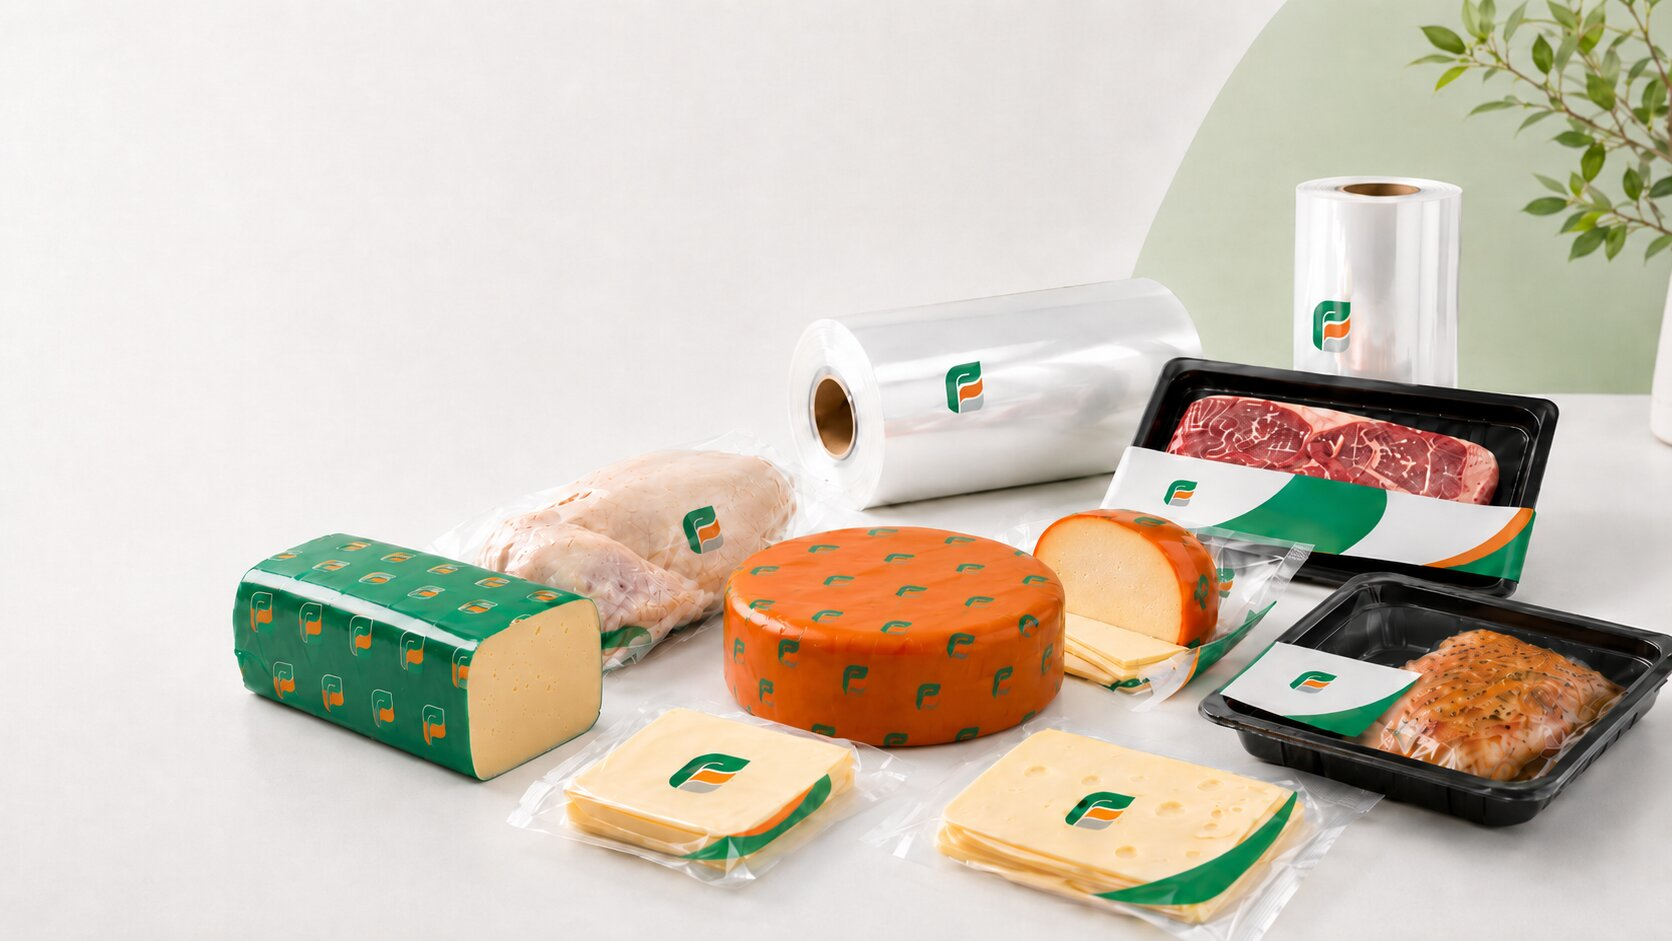
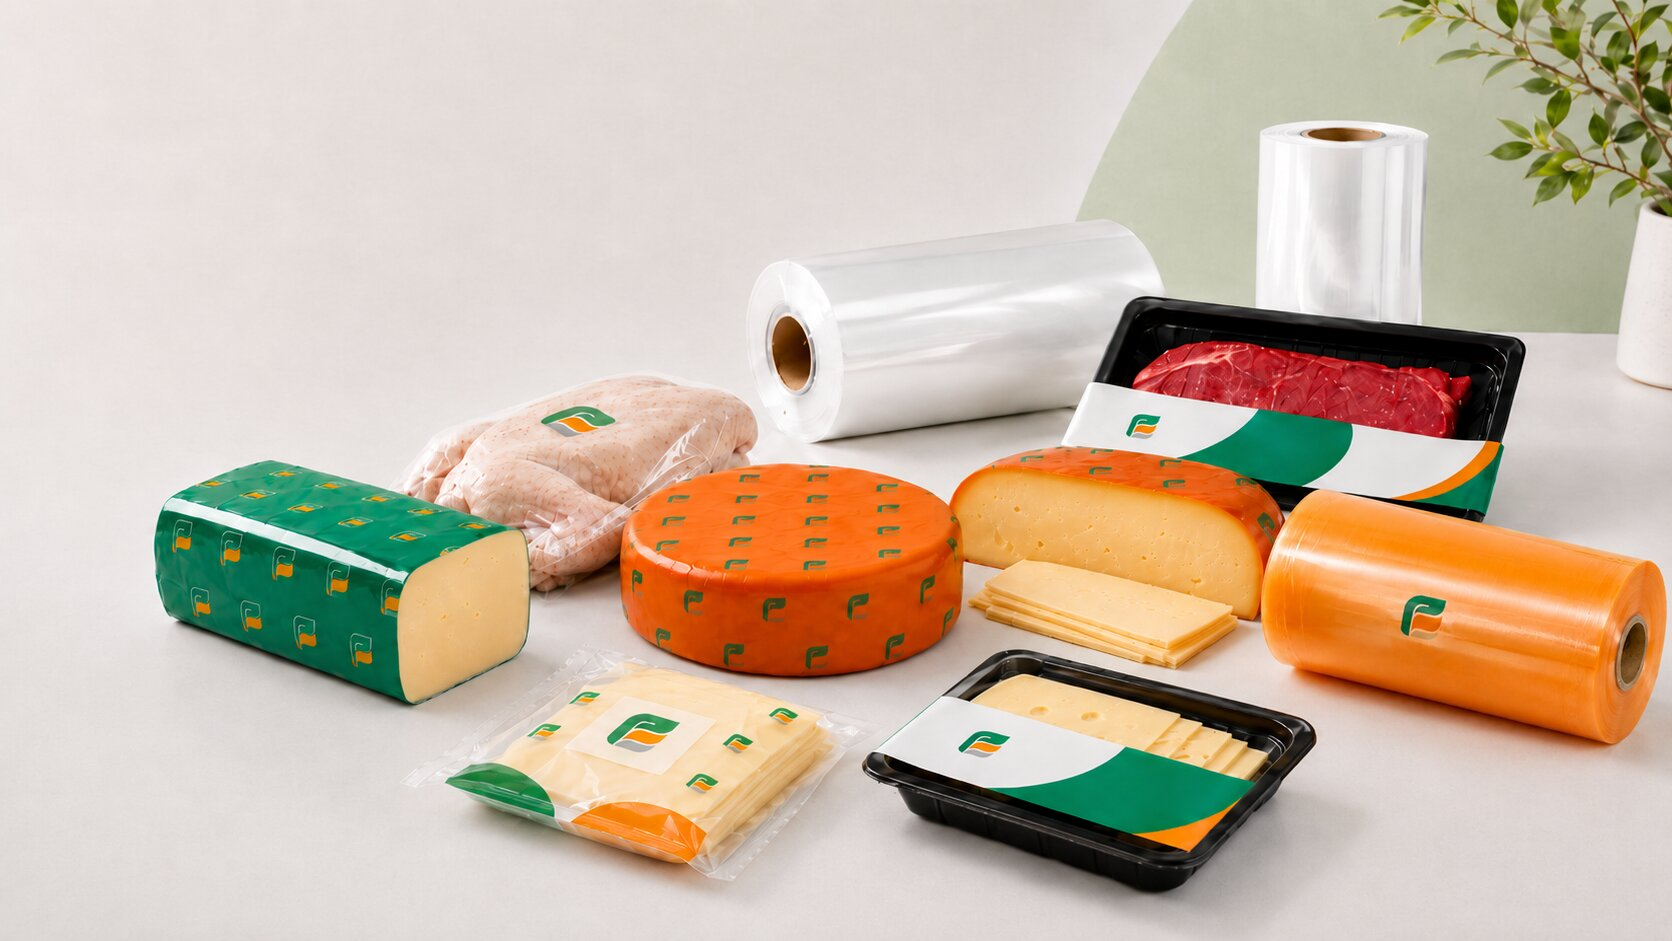
rework hero section

diff --git a/components/Hero/Hero.module.css b/components/Hero/Hero.module.css
@@ -22,8 +22,7 @@
   background-repeat: no-repeat;
   background-position: 58% center;
   background-size: cover;
-  transform: scale(1.035);
-  animation: imageReveal 1400ms cubic-bezier(0.22, 1, 0.36, 1) forwards;
+  filter: brightness(0.9) saturate(0.9) contrast(1.04);
 }
 
 .hero::after {
@@ -31,11 +30,11 @@
   background:
     linear-gradient(
       90deg,
-      rgba(17, 45, 28, 0.93) 0%,
-      rgba(17, 45, 28, 0.78) 66%,
-      rgba(17, 45, 28, 0.52) 100%
+      rgba(14, 39, 24, 0.95) 0%,
+      rgba(14, 39, 24, 0.84) 66%,
+      rgba(14, 39, 24, 0.64) 100%
     ),
-    linear-gradient(0deg, rgba(11, 27, 18, 0.3), transparent 55%);
+    linear-gradient(0deg, rgba(8, 27, 16, 0.38), transparent 58%);
 }
 
 .content {
@@ -172,12 +171,12 @@
     background:
       linear-gradient(
         90deg,
-        rgba(17, 45, 28, 0.93) 0%,
-        rgba(17, 45, 28, 0.74) 54%,
-        rgba(17, 45, 28, 0.3) 84%,
-        rgba(17, 45, 28, 0.18) 100%
+        rgba(14, 39, 24, 0.95) 0%,
+        rgba(14, 39, 24, 0.8) 54%,
+        rgba(14, 39, 24, 0.48) 84%,
+        rgba(14, 39, 24, 0.34) 100%
       ),
-      linear-gradient(0deg, rgba(11, 27, 18, 0.3), transparent 55%);
+      linear-gradient(0deg, rgba(8, 27, 16, 0.38), transparent 58%);
   }
 
   .content {
@@ -225,12 +224,12 @@
     background:
       linear-gradient(
         90deg,
-        rgba(17, 45, 28, 0.94) 0%,
-        rgba(17, 45, 28, 0.82) 37%,
-        rgba(17, 45, 28, 0.42) 65%,
-        rgba(17, 45, 28, 0.12) 100%
+        rgba(14, 39, 24, 0.95) 0%,
+        rgba(14, 39, 24, 0.84) 38%,
+        rgba(14, 39, 24, 0.56) 68%,
+        rgba(14, 39, 24, 0.32) 100%
       ),
-      linear-gradient(0deg, rgba(11, 27, 18, 0.32), transparent 52%);
+      linear-gradient(0deg, rgba(8, 27, 16, 0.38), transparent 58%);
   }
 
   .content {
@@ -256,12 +255,6 @@
   }
 }
 
-@keyframes imageReveal {
-  to {
-    transform: scale(1);
-  }
-}
-
 @keyframes contentReveal {
   to {
     opacity: 1;
@@ -270,7 +263,6 @@
 }
 
 @media (prefers-reduced-motion: reduce) {
-  .hero::before,
   .eyebrow,
   .title,
   .description,